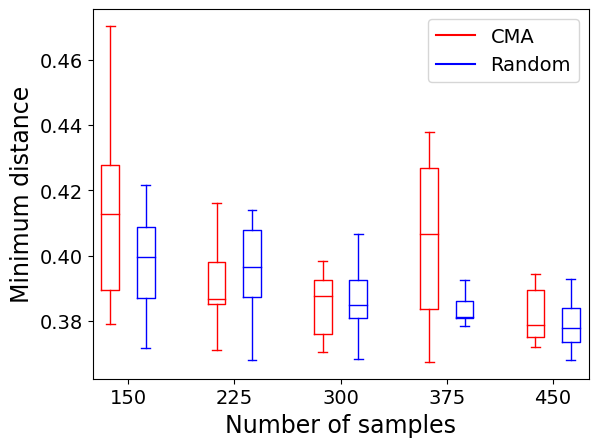
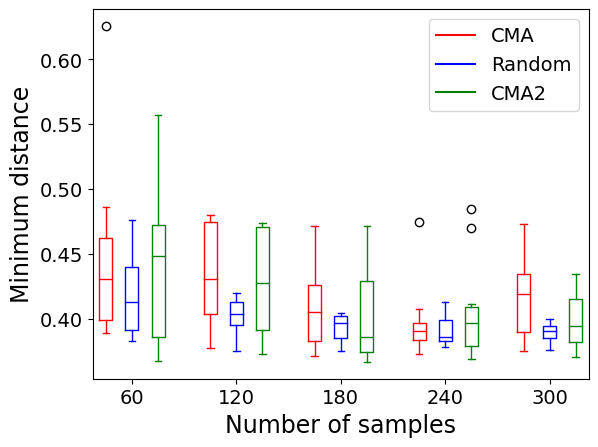
update cartpole pid

diff --git a/scripts/run_lunar_lander_ppo.py b/scripts/run_lunar_lander_ppo.py
@@ -7,7 +7,7 @@ from robustness.agents.lunar_lander import PPO
 from robustness.analysis import Problem
 from robustness.analysis.algorithms import (CMASolver, CMASystemEvaluator,
                                             RandomSolver, ExpectationSysEvaluator)
-from robustness.analysis.utils import L2Norm
+from robustness.analysis.utils import L2Norm, normalize
 from robustness.envs.lunar_lander import DevLunarLander, SafetyProp
 from robustness.evaluation import Evaluator, Experiment
 from robustness.evaluation.utils import boxplot
@@ -35,27 +35,25 @@ sys_eval = CMASystemEvaluator(
 # print(sys_eval.eval_sys(env.delta_0, prob))
 # print(datetime.now() - start)
 
+samples = np.arange(1, 6) * 20
+
 # Use CMA
 solver = CMASolver(0.2, sys_eval)
 evaluator = Evaluator(prob, solver)
 experiment = Experiment(evaluator)
-data1, _ = experiment.run_diff_max_samples('CMA', np.arange(25, 126, 25), out_dir='data/lunar-lander-ppo/cma')
-
-# FIXME: use boxplot to remove outlier
-# b = plt.boxplot(np.ndarray.flatten(np.asarray(data1)))
-# boundary = [l.get_ydata()[1] for l in b['whiskers']][0]
-
-boundary = np.min(data1)
-
+data1 = experiment.run_diff_max_samples('CMA', samples, out_dir='data/lunar-lander-ppo/cma')
+idx = np.argmin(data1['min_dist'])
 plt.figure()
 evaluator.heatmap(
     winds, turbulences, 25, 25,
     x_name="Wind", y_name="Turbulence", z_name="System Evaluation $\Gamma$",
     out_dir='data/lunar-lander-ppo',
-    boundary=boundary,
+    boundary=data1['min_dist'].iat[idx],
     vmax=0.1, vmin=-0.4
 )
-plt.title('Robustness $\hat{\Delta}: ||\delta - \delta_0||_2 < %.3f$' % boundary)
+min_delta = normalize(data1['min_delta'].iat[idx], env.get_dev_bounds())
+plt.scatter(min_delta[0]*25, min_delta[1]*25, color='yellow')
+plt.title('Robustness $\hat{\Delta}: ||\delta - \delta_0||_2 < %.3f$' % data1['min_dist'].iat[idx])
 plt.savefig('gifs/lunar-lander-ppo/fig-robustness.png', bbox_inches='tight')
 # plt.show()
 
@@ -63,40 +61,40 @@ plt.savefig('gifs/lunar-lander-ppo/fig-robustness.png', bbox_inches='tight')
 random_solver = RandomSolver(sys_eval)
 evaluator2 = Evaluator(prob, random_solver)
 experiment2 = Experiment(evaluator2)
-data2, _ = experiment2.run_diff_max_samples('Random', np.arange(25, 126, 25), out_dir='data/lunar-lander-ppo/random')
+data2 = experiment2.run_diff_max_samples('Random', samples, out_dir='data/lunar-lander-ppo/random')
 
-plt.figure()
-plt.xlabel('Number of samples')
-plt.ylabel('Minimum distance')
-boxplot([data1, data2], ['red', 'blue'], np.arange(25, 126, 25) * (1 + solver.options()['restarts']),
-        ['CMA', 'Random'])
-plt.savefig('gifs/lunar-lander-ppo/fig-boxplot.png', bbox_inches='tight')
+# plt.figure()
+# plt.xlabel('Number of samples')
+# plt.ylabel('Minimum distance')
+# boxplot([data1, data2], ['red', 'blue'], samples * (1 + solver.options()['restarts']),
+#         ['CMA', 'Random'])
+# plt.savefig('gifs/lunar-lander-ppo/fig-boxplot.png', bbox_inches='tight')
 # plt.show()
 
+# Use expectation evaluator
+# sys_eval3 = ExpectationSysEvaluator(
+#     phi,
+#     {'timeout': 1, 'restarts': 0, 'episode_len': 300, 'evals': 40}
+# )
 
-sys_eval3 = ExpectationSysEvaluator(
-    phi,
-    {'timeout': 1, 'restarts': 0, 'episode_len': 300, 'evals': 40}
-)
+# # from datetime import datetime
+# # start = datetime.now()
+# # print(sys_eval3.eval_sys(env.delta_0, prob))
+# # print(datetime.now() - start)
 
-# from datetime import datetime
-# start = datetime.now()
-# print(sys_eval3.eval_sys(env.delta_0, prob))
-# print(datetime.now() - start)
-
-solver3 = CMASolver(0.2, sys_eval3)
-evaluator3 = Evaluator(prob, solver3)
-experiment3 = Experiment(evaluator3)
-# data3, _ = experiment3.run_diff_max_samples('Expc', np.arange(25, 126, 25), out_dir='data/lunar-lander-ppo/expc')
-plt.figure()
-evaluator3.heatmap(
-    winds, turbulences, 25, 25,
-    x_name="Wind", y_name="Turbulence", z_name="System Evaluation $\Gamma$",
-    out_dir='data/lunar-lander-ppo/expc',
-    # boundary=np.min(data3),
-)
-# plt.title('Robustness $\hat{\Delta}: ||\delta - \delta_0||_2 < %.3f$' % np.min(data3))
-plt.savefig('gifs/lunar-lander-ppo/fig-robustness-expc.png', bbox_inches='tight')
+# solver3 = CMASolver(0.2, sys_eval3)
+# evaluator3 = Evaluator(prob, solver3)
+# experiment3 = Experiment(evaluator3)
+# # data3, _ = experiment3.run_diff_max_samples('Expc', np.arange(25, 126, 25), out_dir='data/lunar-lander-ppo/expc')
+# plt.figure()
+# evaluator3.heatmap(
+#     winds, turbulences, 25, 25,
+#     x_name="Wind", y_name="Turbulence", z_name="System Evaluation $\Gamma$",
+#     out_dir='data/lunar-lander-ppo/expc',
+#     # boundary=np.min(data3),
+# )
+# # plt.title('Robustness $\hat{\Delta}: ||\delta - \delta_0||_2 < %.3f$' % np.min(data3))
+# plt.savefig('gifs/lunar-lander-ppo/fig-robustness-expc.png', bbox_inches='tight')
 
 # plt.figure()
 # plt.xlabel('Number of samples')

diff --git a/scripts/run_cartpole_pid.py b/scripts/run_cartpole_pid.py
@@ -9,7 +9,7 @@ from robustness.analysis.algorithms import (CMASolver, CMASystemEvaluator,
                                             ExpectationSysEvaluator,
                                             RandomSolver)
 from robustness.analysis.utils import L2Norm, normalize
-from robustness.envs.cartpole import DevCartPole, SafetyProp
+from robustness.envs.cartpole import DevCartPole, SafetyProp, SafetyProp2
 from robustness.evaluation import Evaluator, Experiment
 from robustness.evaluation.utils import boxplot
 
@@ -58,13 +58,44 @@ evaluator2 = Evaluator(prob, random_solver)
 experiment2 = Experiment(evaluator2)
 data2 = experiment2.run_diff_max_samples('Random', samples, out_dir='data/cartpole-pid/random')
 
+# Use STL2 Evaluator
+phi = SafetyProp2()
+
+# Create problem and solver
+prob = Problem(env, agent, phi, L2Norm(env))
+sys_eval = CMASystemEvaluator(0.4, phi, {'timeout': 1, 'episode_len': 200})
+solver = CMASolver(0.2, sys_eval)
+evaluator = Evaluator(prob, solver)
+experiment = Experiment(evaluator)
+data3 = experiment.run_diff_max_samples('STL2', samples, out_dir='data/cartpole-pid/stl2')
+idx = np.argmin(data3['min_dist'])
+plt.figure()
+evaluator.heatmap(
+    masses, forces, 25, 25,
+    x_name="Mass", y_name="Force", z_name="System Evaluation $\Gamma$",
+    out_dir='data/cartpole-pid',
+    boundary=data3['min_dist'].iat[idx],
+    vmax=0.2
+)
+min_delta = normalize(data3['min_delta'].iat[idx], env.get_dev_bounds())
+plt.scatter(min_delta[0]*25, min_delta[1]*25, color='yellow')
+plt.title('Robustness $\hat{\Delta}: ||\delta - \delta_0||_2 < %.3f$' % data3['min_dist'].iat[idx])
+plt.savefig('gifs/cartpole-pid/fig-robustness-stl2.png', bbox_inches='tight')
+
 plt.figure()
 plt.xlabel('Number of samples')
 plt.ylabel('Minimum distance')
-boxplot([[d['min_dist'] for d in data1], [d['min_dist'] for d in data2]], ['red', 'blue'], samples * (1 + solver.options()['restarts']),
-        ['CMA', 'Random'])
+boxplot(
+    [
+        [data1['min_dist'].loc[x] for x in samples],
+        [data2['min_dist'].loc[x] for x in samples],
+        [data3['min_dist'].loc[x] for x in samples],
+    ],
+    ['red', 'blue', 'green'],
+    samples * (1 + solver.options()['restarts']),
+    ['CMA', 'Random', 'CMA2']
+)
 plt.savefig('gifs/cartpole-pid/fig-boxplot.png', bbox_inches='tight')
-# plt.show()
 
 # Use expection evaluator
 # sys_eval3 = ExpectationSysEvaluator(

diff --git a/scripts/run_cartpole_dqn.py b/scripts/run_cartpole_dqn.py
@@ -8,7 +8,7 @@ from robustness.analysis import Problem
 from robustness.analysis.algorithms import (CMASolver, CMASystemEvaluator,
                                             ExpectationSysEvaluator,
                                             RandomSolver)
-from robustness.analysis.utils import L2Norm
+from robustness.analysis.utils import L2Norm, normalize
 from robustness.envs.cartpole import DevCartPole, SafetyProp
 from robustness.evaluation import Evaluator, Experiment
 from robustness.evaluation.utils import boxplot
@@ -37,16 +37,18 @@ solver = CMASolver(0.2, sys_eval)
 evaluator = Evaluator(prob, solver)
 experiment = Experiment(evaluator)
 data1 = experiment.run_diff_max_samples('CMA', samples, out_dir='data/cartpole-dqn/cma')
-min_dist = np.min([d['min_dist'] for d in data1])
+idx = np.argmin(data1['min_dist'])
 plt.figure()
 evaluator.heatmap(
     masses, forces, 25, 25,
     x_name="Mass", y_name="Force", z_name="System Evaluation $\Gamma$",
     out_dir='data/cartpole-dqn',
-    boundary=min_dist,
+    boundary=data1['min_dist'].iat[idx],
     vmax=0.2
 )
-plt.title('Robustness $\hat{\Delta}: ||\delta - \delta_0||_2 < %.3f$' % min_dist)
+min_delta = normalize(data1['min_delta'].iat[idx], env.get_dev_bounds())
+plt.scatter(min_delta[0]*25, min_delta[1]*25, color='yellow')
+plt.title('Robustness $\hat{\Delta}: ||\delta - \delta_0||_2 < %.3f$' % data1['min_dist'].iat[idx])
 plt.savefig('gifs/cartpole-dqn/fig-robustness.png', bbox_inches='tight')
 # plt.show()
 
@@ -56,12 +58,12 @@ evaluator2 = Evaluator(prob, random_solver)
 experiment2 = Experiment(evaluator2)
 data2 = experiment2.run_diff_max_samples('Random', samples, out_dir='data/cartpole-dqn/random')
 
-plt.figure()
-plt.xlabel('Number of samples')
-plt.ylabel('Minimum distance')
-boxplot([data1, data2], ['red', 'blue'], samples * (1 + solver.options()['restarts']),
-        ['CMA', 'Random'])
-plt.savefig('gifs/cartpole-dqn/fig-boxplot.png', bbox_inches='tight')
+# plt.figure()
+# plt.xlabel('Number of samples')
+# plt.ylabel('Minimum distance')
+# boxplot([data1, data2], ['red', 'blue'], samples * (1 + solver.options()['restarts']),
+#         ['CMA', 'Random'])
+# plt.savefig('gifs/cartpole-dqn/fig-boxplot.png', bbox_inches='tight')
 # plt.show()
 
 # Use expection evaluator

diff --git a/scripts/run_lunar_lander_ppo copy.py b/scripts/run_lunar_lander_ppo copy.py
@@ -1,0 +1,58 @@
+import os
+
+import matplotlib.pyplot as plt
+import numpy as np
+
+from robustness.agents.lunar_lander import PPO
+from robustness.analysis import Problem
+from robustness.analysis.algorithms import (CMASolver, CMASystemEvaluator,
+                                            RandomSolver, ExpectationSysEvaluator)
+from robustness.analysis.utils import L2Norm, normalize
+from robustness.envs.lunar_lander import DevLunarLander, SafetyProp2
+from robustness.evaluation import Evaluator, Experiment
+from robustness.evaluation.utils import boxplot
+
+os.makedirs('gifs/lunar-lander-ppo', exist_ok=True)
+plt.rc('axes', labelsize=17, titlesize=17)
+plt.rc('xtick', labelsize=14)
+plt.rc('ytick', labelsize=14)
+plt.rc('legend', fontsize=14)
+
+winds = [0.0, 20.0]
+turbulences = [0.0, 2.0]
+env = DevLunarLander(winds, turbulences, (0.0, 0.0))
+agent = PPO('models/lunar-lander/ppo.zip')
+phi = SafetyProp2()
+
+prob = Problem(env, agent, phi, L2Norm(env))
+sys_eval = CMASystemEvaluator(
+    0.4, phi, 
+    {'timeout': 1, 'restarts': 0, 'episode_len': 300, 'evals': 40}
+)
+
+# from datetime import datetime
+# start = datetime.now()
+# print(sys_eval.eval_sys(env.delta_0, prob))
+# print(datetime.now() - start)
+
+samples = np.arange(1, 6) * 20
+
+# Use CMA
+solver = CMASolver(0.2, sys_eval)
+evaluator = Evaluator(prob, solver)
+experiment = Experiment(evaluator)
+data1 = experiment.run_diff_max_samples('STL2', samples, out_dir='data/lunar-lander-ppo/stl2')
+idx = np.argmin(data1['min_dist'])
+plt.figure()
+evaluator.heatmap(
+    winds, turbulences, 25, 25,
+    x_name="Wind", y_name="Turbulence", z_name="System Evaluation $\Gamma$",
+    out_dir='data/lunar-lander-ppo',
+    boundary=data1['min_dist'].iat[idx],
+    vmax=0.1, vmin=-0.4
+)
+min_delta = normalize(data1['min_delta'].iat[idx], env.get_dev_bounds())
+plt.scatter(min_delta[0]*25, min_delta[1]*25, color='yellow')
+plt.title('Robustness $\hat{\Delta}: ||\delta - \delta_0||_2 < %.3f$' % data1['min_dist'].iat[idx])
+plt.savefig('gifs/lunar-lander-ppo/fig-robustness-stl2.png', bbox_inches='tight')
+# plt.show()

diff --git a/scripts/run_cartpole_dqn copy.py b/scripts/run_cartpole_dqn copy.py
@@ -1,0 +1,53 @@
+import os
+
+import matplotlib.pyplot as plt
+import numpy as np
+
+from robustness.agents.cartpole import DQN
+from robustness.analysis import Problem
+from robustness.analysis.algorithms import (CMASolver, CMASystemEvaluator,
+                                            ExpectationSysEvaluator,
+                                            RandomSolver)
+from robustness.analysis.utils import L2Norm, normalize
+from robustness.envs.cartpole import DevCartPole, SafetyProp2
+from robustness.evaluation import Evaluator, Experiment
+from robustness.evaluation.utils import boxplot
+
+os.makedirs('gifs/cartpole-dqn', exist_ok=True)
+plt.rc('axes', labelsize=17, titlesize=17)
+plt.rc('xtick', labelsize=14)
+plt.rc('ytick', labelsize=14)
+plt.rc('legend', fontsize=14)
+
+# Initialize environment and controller
+masses = [0.1, 2.0]
+forces = [1.0, 20.0]
+env = DevCartPole(masses, forces, (1.0, 10.0))
+agent = DQN('models/cartpole/best_dqn.zip')
+phi = SafetyProp2()
+
+# Create problem and solver
+prob = Problem(env, agent, phi, L2Norm(env))
+sys_eval = CMASystemEvaluator(0.4, phi, {'timeout': 1, 'episode_len': 200})
+
+samples = np.arange(1, 6) * 20
+
+# Use CMA
+solver = CMASolver(0.2, sys_eval)
+evaluator = Evaluator(prob, solver)
+experiment = Experiment(evaluator)
+data1 = experiment.run_diff_max_samples('STL2', samples, out_dir='data/cartpole-dqn/stl2')
+idx = np.argmin(data1['min_dist'])
+plt.figure()
+evaluator.heatmap(
+    masses, forces, 25, 25,
+    x_name="Mass", y_name="Force", z_name="System Evaluation $\Gamma$",
+    out_dir='data/cartpole-dqn',
+    boundary=data1['min_dist'].iat[idx],
+    vmax=0.2
+)
+min_delta = normalize(data1['min_delta'].iat[idx], env.get_dev_bounds())
+plt.scatter(min_delta[0]*25, min_delta[1]*25, color='yellow')
+plt.title('Robustness $\hat{\Delta}: ||\delta - \delta_0||_2 < %.3f$' % data1['min_dist'].iat[idx])
+plt.savefig('gifs/cartpole-dqn/fig-robustness-stl2.png', bbox_inches='tight')
+# plt.show()

diff --git a/robustness/envs/lunar_lander.py b/robustness/envs/lunar_lander.py
@@ -10,7 +10,7 @@ from gym import error, spaces
 from gym.error import DependencyNotInstalled
 from gym.utils import EzPickle, colorize, seeding
 
-from robustness.analysis.stl import STLEvaluator
+from robustness.analysis.stl import STLEvaluator, STLEvaluator2
 from robustness.analysis.utils import normalize
 from robustness.envs import DeviatableEnv
 
@@ -778,3 +778,20 @@ class SafetyProp(STLEvaluator):
                 time_index
             )
         }
+
+
+class SafetyProp2(STLEvaluator2):
+    def __init__(self):
+        env = LunarLander(enable_wind=True, continuous=True)
+        obs_space = env.observation_space
+        self.angle_range = np.asarray([obs_space.low[4], obs_space.high[4]])
+        self.x_range = np.asarray([obs_space.low[0], obs_space.high[0]])
+        self.y_range = np.asarray([obs_space.low[1], obs_space.high[1]])
+
+        self.angle_threshold = normalize(45 * 2 * np.pi / 360, self.angle_range)
+    
+    def eval_one_timepoint(self, obs):
+        angle = normalize(np.abs(obs[4]), self.angle_range)
+        delta_x = normalize(np.abs(obs[0]), self.x_range) -\
+                    normalize(np.abs(0.6 * obs[1]), self.y_range)
+        return np.min((self.angle_threshold - angle, 0.1 - delta_x))
